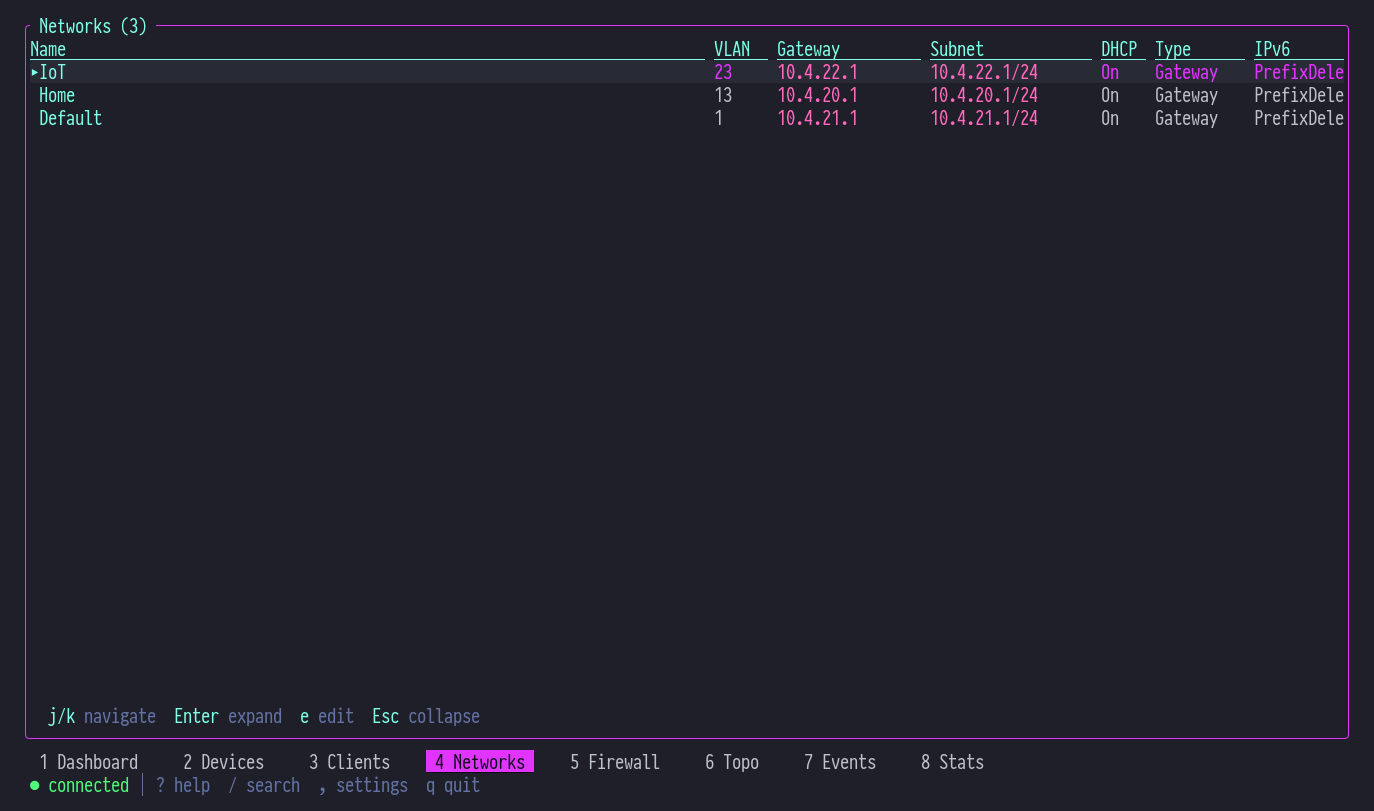
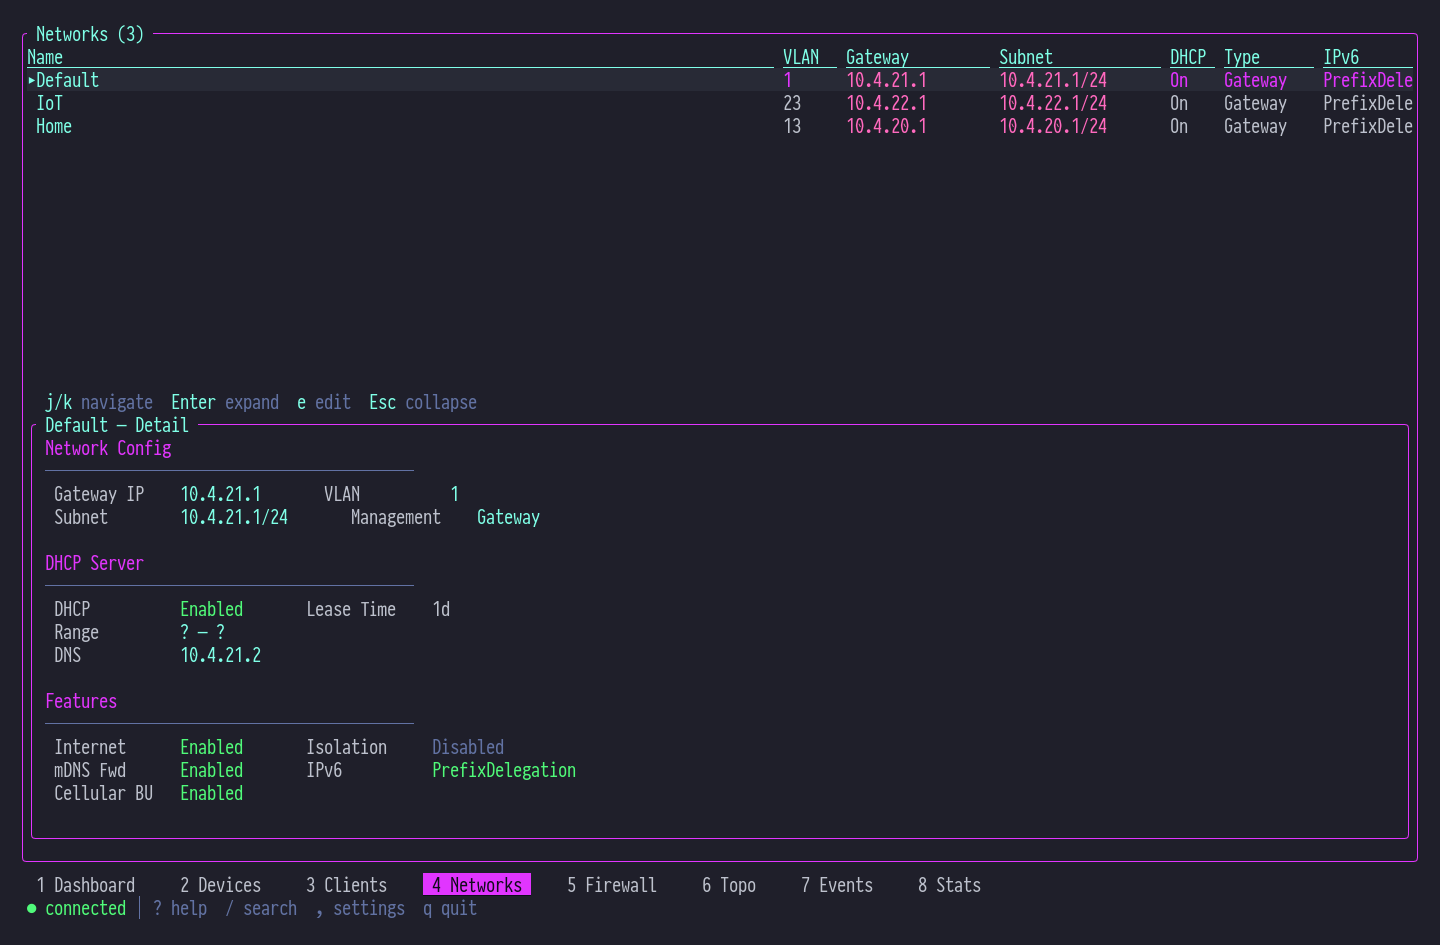
docs: replace clients screenshot with firewall, update networks
Remove clients.png (exposed MAC addresses and internal hostnames).
Replace with firewall policies view. Update networks.png with detail
panel and consistent 1440x945 dimensions.

diff --git a/README.md b/README.md
@@ -254,14 +254,14 @@ The dashboard packs seven live panels into a single view:
 - **Top Clients** — Proportional traffic bars with fractional block characters
 - **Recent Events** — Compact two-per-line event display
 
-### Devices & Clients
+### Devices & Firewall
 
 <p align="center">
   <img src="docs/images/devices.png" alt="unifly-tui devices" width="900">
 </p>
 
 <p align="center">
-  <img src="docs/images/clients.png" alt="unifly-tui clients" width="900">
+  <img src="docs/images/firewall.png" alt="unifly-tui firewall" width="900">
 </p>
 
 ### Key Bindings
